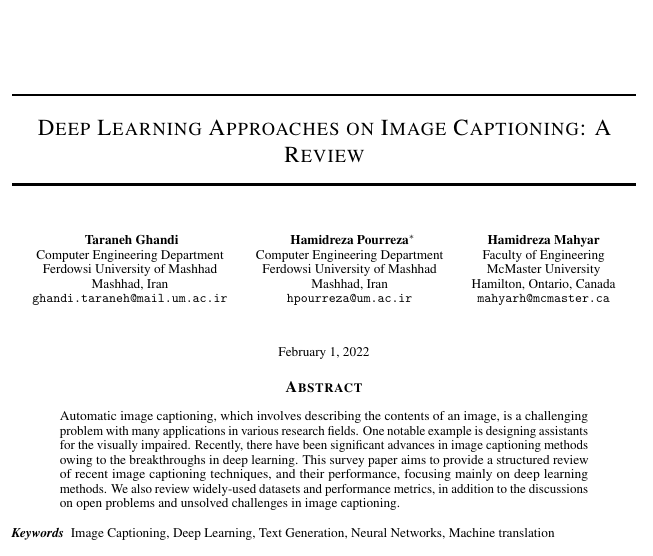
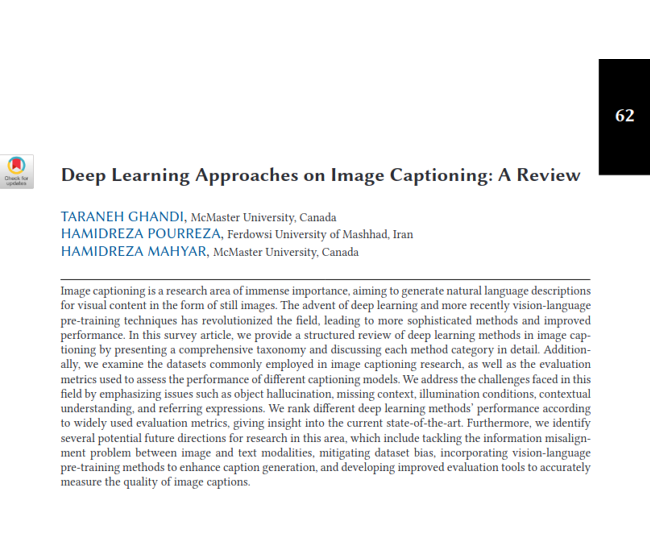
updated paper

Changed region(s): [[0.0306, 0.3669, 0.9495, 0.9173], [0.0, 0.0917, 1.0, 0.3669], [0.0, 0.9478, 0.8576, 0.9784]]

diff --git a/index.html b/index.html
@@ -356,13 +356,15 @@
                                     <p class="col-md text-left section-description">
                     
                                         I have published these until now:<br>
-                                        <a href="https://arxiv.org/abs/2201.12944" target="_blank">Deep Learning Approaches on Image
-                                            Captioning: A Review</a><br>
+                                        <a href="https://dl.acm.org/doi/full/10.1145/3617592" target="_blank">Deep Learning Approaches on Image
+                                            Captioning: A Review</a>
+                                            <b>Taraneh Ghandi</b>,  Hamidreza Pourreza, Hamidreza Mahyar. 38 pages, ACM Computing Surveys, 2023.
+                                            <br>
                     
                                         and also:<br>
                                         <a href="https://arxiv.org/abs/2004.04344" target="_blank">Revisiting 2-3 Red-Black Trees with a
                                             Pedagogically Sound yet Efficient Deletion Algorithm: The Parity-Seeking Delete Algorithm</a>
-                                        which are both currently under review.<br>
+                                        which is currently under review.<br>
                                     </p>
                     
                                     <!-- <div class="row no-gutters justify-content-right"></div>
